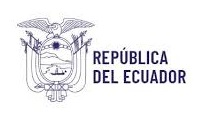
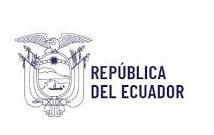
certificado promocion

Changed region(s): [[0.0561, 0.15, 0.8692, 0.875]]

diff --git a/resources/views/reports/certificado_promocion.blade.php b/resources/views/reports/certificado_promocion.blade.php
@@ -6,20 +6,42 @@
     <meta name="viewport" content="width=device-width, initial-scale=1.0">
     <title>Certificado de Promoción</title>
 
+    <style>
+        body {
+            font-family: "Times New Roman", serif;
+            color: #000;
+        }
+
+        .contenido {
+            font-size: 13px;
+            line-height: 1.8;
+            text-align: justify;
+        }
+
+        .firma {
+            font-size: 13px;
+            text-align: center;
+            margin-top: 40px;
+        }
+
+        .linea-firma {
+            margin-top: 60px;
+        }
+    </style>
 
     <!-- Bootstrap CSS -->
     <link rel="stylesheet" href="https://maxcdn.bootstrapcdn.com/bootstrap/4.0.0/css/bootstrap.min.css" integrity="sha384-Gn5384xqQ1aoWXA+058RXPxPg6fy4IWvTNh0E263XmFcJlSAwiGgFAW/dAiS6JXm" crossorigin="anonymous">
 </head>
 <body>
-    <section style ="margin-top: -50px;">
+    <section class="header">
             <table cellpadding="0" cellspacing="0" width="100%">
                 <tr>
                     <td style="width: 60%; text-align: left;">
                         <!--<img src="../public/assets/images/Gob_Ecuador.png" height="170px">-->
-                        <img src="../public/assets/images/Republica del Ecuador.jpg" height="170px">
+                        <img src="../public/assets/images/Republica del Ecuador.jpg" height="110px">
                     </td>   
                     <td style="width: 30%; text-align: right;">
-                        <img src="../public/assets/images/American Schooll.png" height="55">
+                        <img src="../public/assets/images/American Schooll.png" height="50px">
                     </td>
                     <td width="5%">
                     </td>     
@@ -28,9 +50,9 @@
             <table cellpadding="0" cellspacing="0" width="100%" style ="margin-top: -40px;">
                 <tr style="font-size:10px">
                     <td width="100%" class="text-center">
-                        <p style="margin-top:0; margin-bottom:0;"><span style="font-size:14px"><strong>{{$sede['nombre']}}</strong></p> 
-                        <p style="margin-top:0; margin-bottom:0;"><span style="font-size:14px"><strong>CERTIFICADO DE PROMOCIÓN</strong></p> 
-                        <p style="margin-top:0; margin-bottom:0;"><span style="font-size:14px"><strong>AÑO LECTIVO {{$data['periodo']}}</strong></p>
+                        <p style="margin-top:0; margin-bottom:0;"><span style="font-size:14px; color:#827F7F"><strong>{{$sede['nombre']}}</strong></p>
+                        <p style="margin-top:0; margin-bottom:0;"><span style="font-size:14px; color:#827F7F"><strong>CERTIFICADO DE PROMOCIÓN</strong></p> 
+                        <p style="margin-top:0; margin-bottom:0;"><span style="font-size:14px; color:#827F7F"><strong>AÑO LECTIVO {{$data['periodo']}}</strong></p>
                     </td>
                 </tr>
             </table>
@@ -40,7 +62,7 @@
                         <td width="5%">
                         </td>
                         <td width="90%"><span style="horizontal-align: top; padding-top: 10px">
-                            <p style="margin-top:0 line-height: 200%" class="text-justify"><br>
+                            <p style="margin-top:0 line-height: 200%" class="contenido"><br>
                             De conformidad con lo prescrito en el Art. 187 del Reglamento General a la Ley Orgánica 
                             de Educación Intercultural y en concordancia con el articulo 33 del ACUERDO Nro. MINEDUC 2023-00063-A, certifica que el (la) estudiante
                             <strong>{{$data['nombres']}}</strong>, del <strong>{{$data['curso']}} </strong> obtuvo las
@@ -109,7 +131,7 @@
                 <tr style="font-size:13px">
                     <td width="5%">
                     </td>
-                    <td width="90%"><span style="horizontal-align: top; padding-top: 20px">
+                    <td width="90%"><span style="horizontal-align: top; padding-top: 10px">
                         <p style="margin-top:0; line-height: 200%" class="text-justify"><br>
                         @if(!($data['graduado'] ?? false))
                             Por lo tanto es promovido/a al <strong>{{$data['curso_promovido']}}.</strong><br>
@@ -118,7 +140,7 @@
                         @endif
 
                         Para certificar suscribe la <strong>{{$data['rector']}}</strong> como <strong>RECTORA</strong> de la institución quien certifica.<br><br>
-                        Dado y firmado en:<br><br><br>
+                        Dado y firmado en:<br><br>
                         Guayaquil, {{date('d',strtotime($data['emision']))}} de 
                         {{$mes[date('m',strtotime($data['emision']))]}} de {{date('Y',strtotime($data['emision']))}}
                         </p>
@@ -129,49 +151,62 @@
             </tbody>
         </table>
     </section>
+    <section style="position: absolute;
+      display: inline-block;
+      bottom: 0;
+      width: 100%;
+      height: 200px;">
+            <table cellpadding="0" cellspacing="0" class="" width="100%">
+                <tr style="font-size:12px">
+                    <td width="50%" class="text-center">
+                        <div class="firma">
+                            <div class="linea-firma">______________________________</div>
+                            <div>{{$data['rector']}}</div>
+                            <div><strong>RECTOR</strong></div>
+                        </div>
+                    </td>
+                </tr>
+            </table>
+        </section>
     <div style="position: absolute;
       display: inline-block;
       bottom: 0;
       width: 100%;
-      height: 100px;">
-        <section>
-
+      height: 60px;">
+        <!--<section>
             <table cellpadding="0" cellspacing="0" class="" width="100%">
                 <tr style="font-size:12px">
                     <td width="50%" class="text-center">
                         <span><strong>________________________________</strong></span>
                     </td>
-                    <!--<td width="50%" class="text-center">
-                        <span><strong>________________________________</strong></span>
-                    </td>-->
                 </tr>
                 <tr style="font-size:13px">
                     <td width="50%" class="text-center">
                         <span>{{$data['rector']}}</span>
                     </td>
-                    <!--<td width="50%" class="text-center">
-                        <span>{{$data['secretaria']}}</span>
-                    </td>-->
                 </tr>
                 <tr style="font-size:13px">
                     <td width="50%" class="text-center">
                         <span><strong>RECTOR</strong></span>
                     </td>
-                    <!--<td width="50%" class="text-center">
-                        <span><strong>SECRETARIA</strong></span>
-                    </td>-->
                 </tr>
             </table>
-        </section>
+        </section>-->
         <footer>
-            <table cellpadding="0" cellspacing="0" class="table table-nowrap align-middle" width="100%">
-                <tr style="font-size:10px">
-                    <td width="35%">
-                        <span>SAMS | School and Administrative Management System</span>
+            <table cellpadding="0" cellspacing="0" width="100%" style="font-size:12px; color:#B0ACAC" >
+                <tr>
+                    <td style="width: 60%; text-align: left;">
+                        <p style="margin-top:0;" class="text-justify"><br>
+                            <strong>Dirección:</strong> Av. Amazonas n34-451 y Av. Atahualpa <br>
+                            <strong>Codigo postal:</strong> 170507 / Quito Ecuador<br>
+                            <strong>Teléfono:</strong> +593-2-396-1300
+                        </p>
+                    </td>   
+                    <td style="width: 30%; text-align: right;">
+                        <img src="../public/assets/images/Gob_Ecuador.png" height="50px">
                     </td>
-                    <td width="40%" class="text-left">
-                        Usuario:<span> {{auth()->user()->name}} </span>
-                    </td>
+                    <td width="5%">
+                    </td>     
                 </tr>
             </table>
         </footer>

diff --git a/app/Http/Livewire/VcPromocion.php b/app/Http/Livewire/VcPromocion.php
@@ -131,7 +131,7 @@ class VcPromocion extends Component
         $servicio   = TmServicios::find($cursos->servicio_id);
         $this->cursoId = $cursos->servicio_id;
         
-        $this->nomcurso  = $servicio->descripcion.' paralelo '.$cursos->paralelo;
+        $this->nomcurso  = $servicio->descripcion.' paralelo "'.$cursos->paralelo.'"';
         
         $especializacion = $servicio->especializacion->descripcion;
 
